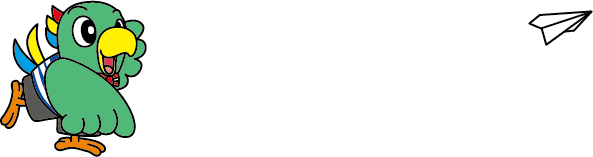
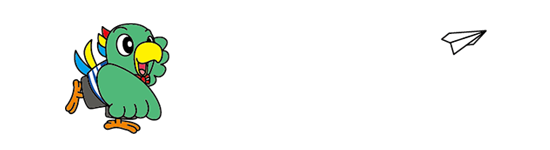
調整定位

Changed region(s): [[0.0, 0.0, 0.3091, 1.0], [0.8036, 0.0533, 1.0, 0.3733]]

diff --git a/qa.html b/qa.html
@@ -24,7 +24,7 @@
   <body class="bg_index">
     <div class="qaBoxs">
       <div class="qaBox">
-        <div><img src="img/qa/qa-h.png" class="img-fluid"></div>
+        <div><img src="img/qa/qa-h.png" class="img-qah"></div>
         <div class="qaC">
           <div class="d-flex flex-nowrap">
             <div class="qaL"></div>
@@ -47,9 +47,9 @@
           </div>
         </div>
         <div class="position-relative">
-          <img src="img/qa/hl.png" class="img-fluid position-absolute top-0 start-0">
-          <img src="img/qa/qa-f.png" class="img-fluid">
-          <img src="img/qa/hr.png" class="img-fluid position-absolute top-0 end-0">
+          <img src="img/qa/hl.png" class="img-hl position-absolute top-0 start-0">
+          <img src="img/qa/qa-f.png" class="img-qaf">
+          <img src="img/qa/hr.png" class="img-hr position-absolute top-0 end-0">
         </div>
 
       </div>

diff --git a/css/qa.css b/css/qa.css
@@ -19,6 +19,17 @@
 .qaBoxs { display: inline-block; width: 100%; padding: 50px; }
 @media screen and (max-width: 449px) and (min-width: 0) { .qaBoxs { padding: 20px; } }
 
+.img-hl, .img-hr { display: inline-block; width: 100%; }
+@media screen and (max-width: 769px) and (min-width: 0) { .img-hl, .img-hr { display: none; } }
+
+.img-qaf, .img-qah { display: inline-block; width: 100%; }
+
+.img-hl { max-width: 550px; }
+@media screen and (max-width: 1024px) and (min-width: 770px) { .img-hl { max-width: 350px; } }
+
+.img-hr { max-width: 150px; }
+@media screen and (max-width: 1024px) and (min-width: 770px) { .img-hr { max-width: 100px; } }
+
 .qaBox { display: inline-block; width: 100%; background-image: url(../img/qa/qa-bg.png); background-repeat: no-repeat; background-size: cover; background-position: center; }
 
 .qa-title { color: #3463a6; margin-left: -18px; }

diff --git a/scss/qa.scss b/scss/qa.scss
@@ -11,6 +11,36 @@
 	}
 }
 
+.img-hl, .img-hr {
+	display: inline-block;
+	width: 100%;
+
+	@include range-width(0, 770px) {
+		display: none;
+	}
+}
+
+.img-qaf, .img-qah {
+	display: inline-block;
+	width: 100%;
+}
+
+.img-hl {
+	max-width: 550px;
+
+	@include range-width(770px, 1025px) {
+		max-width: 350px;
+	}
+}
+
+.img-hr {
+	max-width: 150px;
+
+	@include range-width(770px, 1025px) {
+		max-width: 100px;
+	}
+}
+
 
 
 .qaBox {
